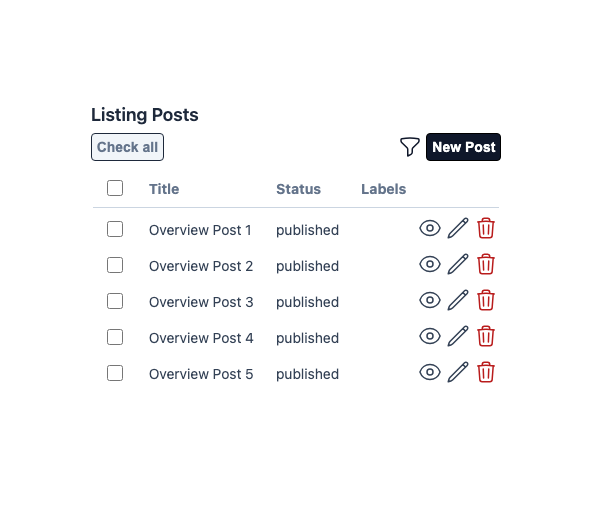
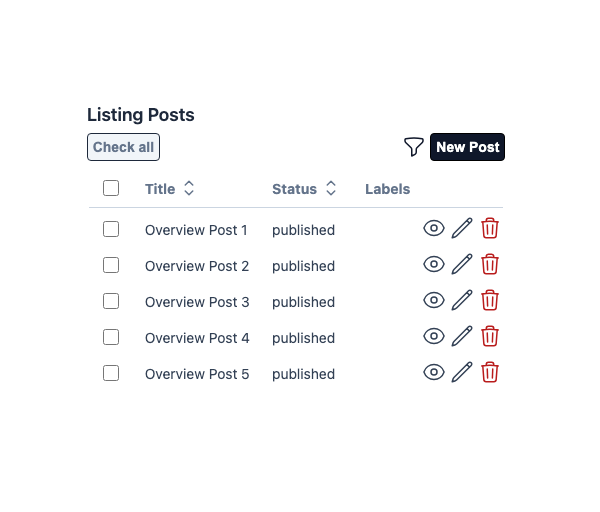
merge - chore: release 0.1.6 (#407)
* docs: regenerate guide images

Claude-Session: https://claude.ai/code/session_0176bwoucz9sLeDrveAQsFyt

* chore: release 0.1.6

Version bump, dated CHANGELOG section with a release-wide intro, ROADMAP and
install snippets, and the prepare-release skill.

Claude-Session: https://claude.ai/code/session_0176bwoucz9sLeDrveAQsFyt

---------

diff --git a/.claude/skills/prepare-release/SKILL.md b/.claude/skills/prepare-release/SKILL.md
@@ -1,0 +1,120 @@
+---
+name: prepare-release
+description: >
+  Prepare a release of aurora_uix up to and including the pull request: bump
+  the version, finalize the CHANGELOG, refresh README/ROADMAP/guides, rebuild
+  the assets, regenerate and review the guide screenshots, run the quality
+  gate, check the Hex package and open the PR. Use this skill when the user says
+  "prepare release", "prepare 0.x.y", "release 0.x.y", "cut a release" or "get
+  the release ready". It never merges, tags or publishes.
+---
+
+Turns the current `@version` (typically `0.x.y-rc.N`) into the release version
+and opens one PR carrying everything the release needs. The skill **ends at the
+opened PR**: merging, tagging, publishing to Hex and any other post-release work
+are not part of it and are never started from here.
+
+Follows `../shared/turn-discipline.md` throughout. Gates run through
+`.claude/scripts/gate.sh` / `suite.sh` as `../shared/background-long-commands.md`
+says (start with `run_in_background`, wait once with `wait-verdict.sh`).
+
+**Input**: the target version. Default: the current `@version` in `mix.exs` with
+the `-rc.N` suffix removed. Call it `<ver>` below; `<today>` is today's date
+(`YYYY-MM-DD`).
+
+## 0. Preflight
+
+1. Read the release issue and its parent; every blocker listed there must be
+   `CLOSED` (`gh issue view <n> --json state`). Any open blocker → stop and report.
+2. `git status` must be clean. Never work on `main`: branch off `origin/main`
+   (`git fetch origin && git checkout -b federico/release-<ver> origin/main`).
+   If already on a non-`main` branch, stay on it.
+3. Environment: `mix deps.get`; `scripts/test_pg.sh ensure`;
+   `MIX_ENV=test mix ecto.create && MIX_ENV=test mix ecto.migrate` (migrations
+   are not run by `mix test`); `which chromedriver` (Wallaby needs it for step 5).
+
+## 1. Version bump
+
+- `mix.exs`: `@version "<ver>"`. On macOS use `sed -i ''` (BSD sed), or Edit.
+- Find stale mentions and fix the install snippets:
+  `grep -rnE "0\.[0-9]+\.[0-9]+" README.md CONTRIBUTING.md guides mix.exs`
+  The `{:aurora_uix, "~> x.y.z"}` snippets (README.md, `guides/introduction/getting_started.md`,
+  `guides/core/ash_integration.md`) take the new version. Leave historical
+  mentions (older CHANGELOG releases, "pre-x.y.z look" notes).
+- Final check, must print nothing: `grep -rn "<ver>-rc\|~> <previous>" README.md guides mix.exs CONTRIBUTING.md`.
+
+## 2. CHANGELOG
+
+- `## [<ver>]` → `## [<ver>] - <today>` (same shape as the older headings).
+- There is no per-rc heading; confirm the section is one consolidated list
+  (Fixes / Added / Changed / Documentation) with no duplicated entries.
+- Every merged feature/fix of the release must have an entry — compare against
+  `git log <previous-tag>..origin/main --oneline`. Tests-only work needs none.
+- Rewrite the bold subtitle and intro paragraph so they cover the whole release,
+  not just its first feature.
+- Entries carry no issue-link suffix (`[#343](...)`); that is the convention for
+  new entries.
+
+## 3. Other docs
+
+- `ROADMAP.md`: "Current Status" → `v<ver>` with a one-paragraph summary and a
+  "Recent Changes" list; the former current release becomes "Previous Release",
+  the one before "Earlier Release".
+- `CONTRIBUTING.md`: version mentions, if any.
+- Every `guides/**/*.md` must be in `docs.extras` of `mix.exs`:
+  `for f in $(find guides -name '*.md'); do grep -q "\"$f\"" mix.exs || echo "NOT IN EXTRAS: $f"; done`
+
+## 4. Build assets
+
+`mix assets.build`
+
+Required before any screenshot: it regenerates icons, the theme stylesheet
+(`assets/css/auix-*.css`, gitignored and **not** regenerated by `mix consistency`),
+esbuild bundles and digests. Without it the capture tests serve stale CSS/JS and
+the images would not show the real UI. It must exit `0`.
+
+## 5. Screenshots
+
+`mix test test/guides/capture_*.exs`
+
+Overwrites the PNGs in `guides/overview/images`, `guides/core/images/layouts`
+and `guides/core/images/ash` (desktop 1024×768, mobile 412×915) through
+`ImageHelper.capture/5`. Capture tests pass even when an image is visually wrong,
+so review the output:
+
+1. `git status --short` — only `.png` files under those three directories change
+   (an unchanged one means byte-identical, which is fine).
+2. **Read every changed PNG** (at least one per capture file, all of the
+   index/show/edit views) and check: current UI features are visible (e.g. sort
+   arrows on index headers), data is the expected sample data, no error flash or
+   half-loaded state, no clipped or empty crop, modal and tabs render as the
+   guide text describes.
+3. A new feature that deserves a picture: add a capture to
+   `test/guides/capture_*.exs`, re-run, and reference it from the guide with the
+   existing `<img src="./images/..." width="600" alt="...">` pattern.
+4. A bad capture → fix the capture test or the UI, rebuild if CSS/JS changed
+   (step 4), re-run. Do not hand-edit PNGs.
+
+## 6. Quality gate
+
+1. `.claude/scripts/gate.sh` → must end `EXIT: 0` (consistency stages; the
+   `docs/spec-only` skip does not apply, `mix.exs` changed).
+2. `.claude/scripts/suite.sh` → must end `EXIT: 0`.
+3. `mix docs` → exit `0` and no `warning` lines (broken extras, links, images).
+
+## 7. Package check
+
+`mix hex.build` — read the file list: `lib`, `assets/js`, `priv/static/css`,
+`priv/static/classes.js`, `README.md`, `CHANGELOG.md` present; nothing from
+`lib/aurora_uix/guides/`. Then delete the generated `aurora_uix-<ver>.tar`.
+This builds only; it publishes nothing.
+
+## 8. Commit and PR
+
+1. Commit with conventional commits, separating the concerns:
+   `chore: release <ver>` (mix.exs, CHANGELOG, README, ROADMAP, guide text) and
+   `docs: regenerate guide images` (the PNGs and capture-test changes). `gate-commit`
+   can do the grouping.
+2. Open the PR with `do-pr`, referencing the release issue. The PR body lists the
+   screenshots regenerated and the gate/suite/docs results.
+3. Report the PR URL and stop.

diff --git a/ROADMAP.md b/ROADMAP.md
@@ -5,19 +5,27 @@ this is a dynamic wishlist that evolves based on community feedback, adoption pa
 
 **Note**: Priorities and implementation order will be determined based on community adoption, feature requests, and identified pain points.
 
-## Current Status: v0.1.5
+## Current Status: v0.1.6
 
-Aurora UIX v0.1.5 adds `has_one` and `many_to_many` association support, a runtime component override mechanism, per-layout custom field renderers, and Ash calculations/aggregates support, alongside a documentation reorganization.
+Aurora UIX v0.1.6 adds click-to-sort index headers, predefined field renderers (and renderers by HTML type), live updates across sessions through Phoenix PubSub, an unsaved-changes guard on the form modal, a `contains` filter, and multi-value select support on both backends.
 
-**Recent Changes (v0.1.5)**:
+**Recent Changes (v0.1.6)**:
+- Sortable index column headers
+- Predefined field renderers (`:toggle_switch`, `:color`, `:badge`, `:progress_bar`, `:url`, `:rating`) and a `renderers:` map by HTML type
+- Live updates across sessions through Phoenix PubSub (`Aurora.Uix.Events`)
+- Unsaved-changes guard on the form modal
+- `contains` filter condition for text fields
+- Multi-value selects as checkbox groups; read-only scalar arrays
+- Guide recipe for custom bulk actions on selected rows
+
+**Previous Release (v0.1.5)**:
 - `has_one` and `many_to_many` association support (both backends)
 - Runtime component override mechanism (`Aurora.Uix.ComponentsResolver`)
 - Per-layout custom field renderers (`index_renderer`, `edit_renderer`, `show_renderer`)
 - Ash calculations and aggregates auto-discovered and auto-loaded
 - Copyable inputs (copy-to-clipboard for text/textarea fields)
-- Guide reorganization into a dedicated Customization & Extension section
 
-**Previous Release (v0.1.4)**:
+**Earlier Release (v0.1.4)**:
 - Improved Ash framework compatibility
 
 **Earlier Release (v0.1.3)**:

diff --git a/CHANGELOG.md b/CHANGELOG.md
@@ -1,14 +1,15 @@
 # Changelog for Aurora UIX
 
-## [0.1.6]
+## [0.1.6] - 2026-10-02
 
-**Multi-Value Selects & Read-Only Array Fields**
+**Sortable Columns, Named Renderers & Live Updates**
 
-This release closes a gap in array attribute handling: multi-value enums (atom or `Ecto.Enum`
-arrays with a fixed option set) are now recognized as multi-selects on both backends, and scalar
-arrays that carry no option set render as a read-only list instead of leaking a raw `{:array, _}`
-type into the UI. Ash enum modules and `NewType`-wrapped `one_of` constraints are now also detected
-as selects.
+This release adds click-to-sort index headers, predefined and per-HTML-type field renderers, live
+updates across sessions through Phoenix PubSub, an unsaved-changes guard on the form modal, and a
+`contains` filter. Multi-value enums (atom or `Ecto.Enum` arrays with a fixed option set) are now
+multi-selects on both backends, scalar arrays without an option set render as a read-only list, and
+Ash enum modules and `NewType`-wrapped `one_of` constraints are detected as selects. It also fixes
+several Ash and filter-bar defects and documents bulk actions on selected rows.
 
 Requires:
 - Elixir `1.17+`

diff --git a/.claude/skills/README.md b/.claude/skills/README.md
@@ -54,6 +54,7 @@ suite stays green.
 | `gate-fix` | Runs `mix consistency` and fixes mechanical issues; emits a Refactor Plan for refactor-class issues |
 | `gate-commit` | Groups the working tree into conventional commits; refuses unless `mix consistency` is clean |
 | `documentation` | Elixir documentation rules |
+| `prepare-release` | Prepares a release up to the opened PR: version bump, CHANGELOG, docs, `mix assets.build`, regenerated and reviewed guide screenshots, gate, Hex package check. Never merges, tags or publishes |
 | `bump-dependencies` | Bumps outdated Hex dependencies, updates `CHANGELOG.md` and closes the `bump`-labelled issues it resolves |
 
 `.claude/agents/epic-orchestrator.md` is the agent `orchestrate-issue` spawns to

diff --git a/CONTRIBUTING.md b/CONTRIBUTING.md
@@ -238,9 +238,14 @@ To capture screenshots:
 All the images are generated with proper data and format. This is the simplest way.
 If you need to add or modify an image, do it in the "test/guides/capture_image.exs"
 
+Run `mix assets.build` first, so the images show the current UI.
+
 ```bash
+mix assets.build
 mix test test/guides/capture_*.exs
 ```
+
+The `prepare-release` skill (`.claude/skills/prepare-release/`) runs this as part of release preparation.
 
 - Manually
 Start the [test server](#server-under-test-environment)

diff --git a/guides/core/ash_integration.md b/guides/core/ash_integration.md
@@ -37,7 +37,7 @@ Besides Aurora UIX, you'll need to add Ash dependencies for using it as a backen
 ```elixir
 def deps do
   [
-    {:aurora_uix, "~> 0.1.5"},  # Main framework
+    {:aurora_uix, "~> 0.1.6"},  # Main framework
     {:ash, "~> 3.0"},           # If use Ash as backend
     {:ash_postgres, "~> 2.0"}   # Needed if using postgres as your data layer. Add any other data layer required by your backend
   ]

diff --git a/guides/introduction/getting_started.md b/guides/introduction/getting_started.md
@@ -17,7 +17,7 @@ Add `aurora_uix` to your `mix.exs` dependencies. Make sure your Phoenix project 
 ```elixir
 def deps do
   [
-    {:aurora_uix, "~> 0.1.5"}
+    {:aurora_uix, "~> 0.1.6"}
   ]
 end
 ```

diff --git a/README.md b/README.md
@@ -121,7 +121,7 @@ Add Aurora UIX to your `mix.exs`:
 ```elixir
 def deps do
   [
-    {:aurora_uix, "~> 0.1.5"}
+    {:aurora_uix, "~> 0.1.6"}
   ]
 end
 ```
